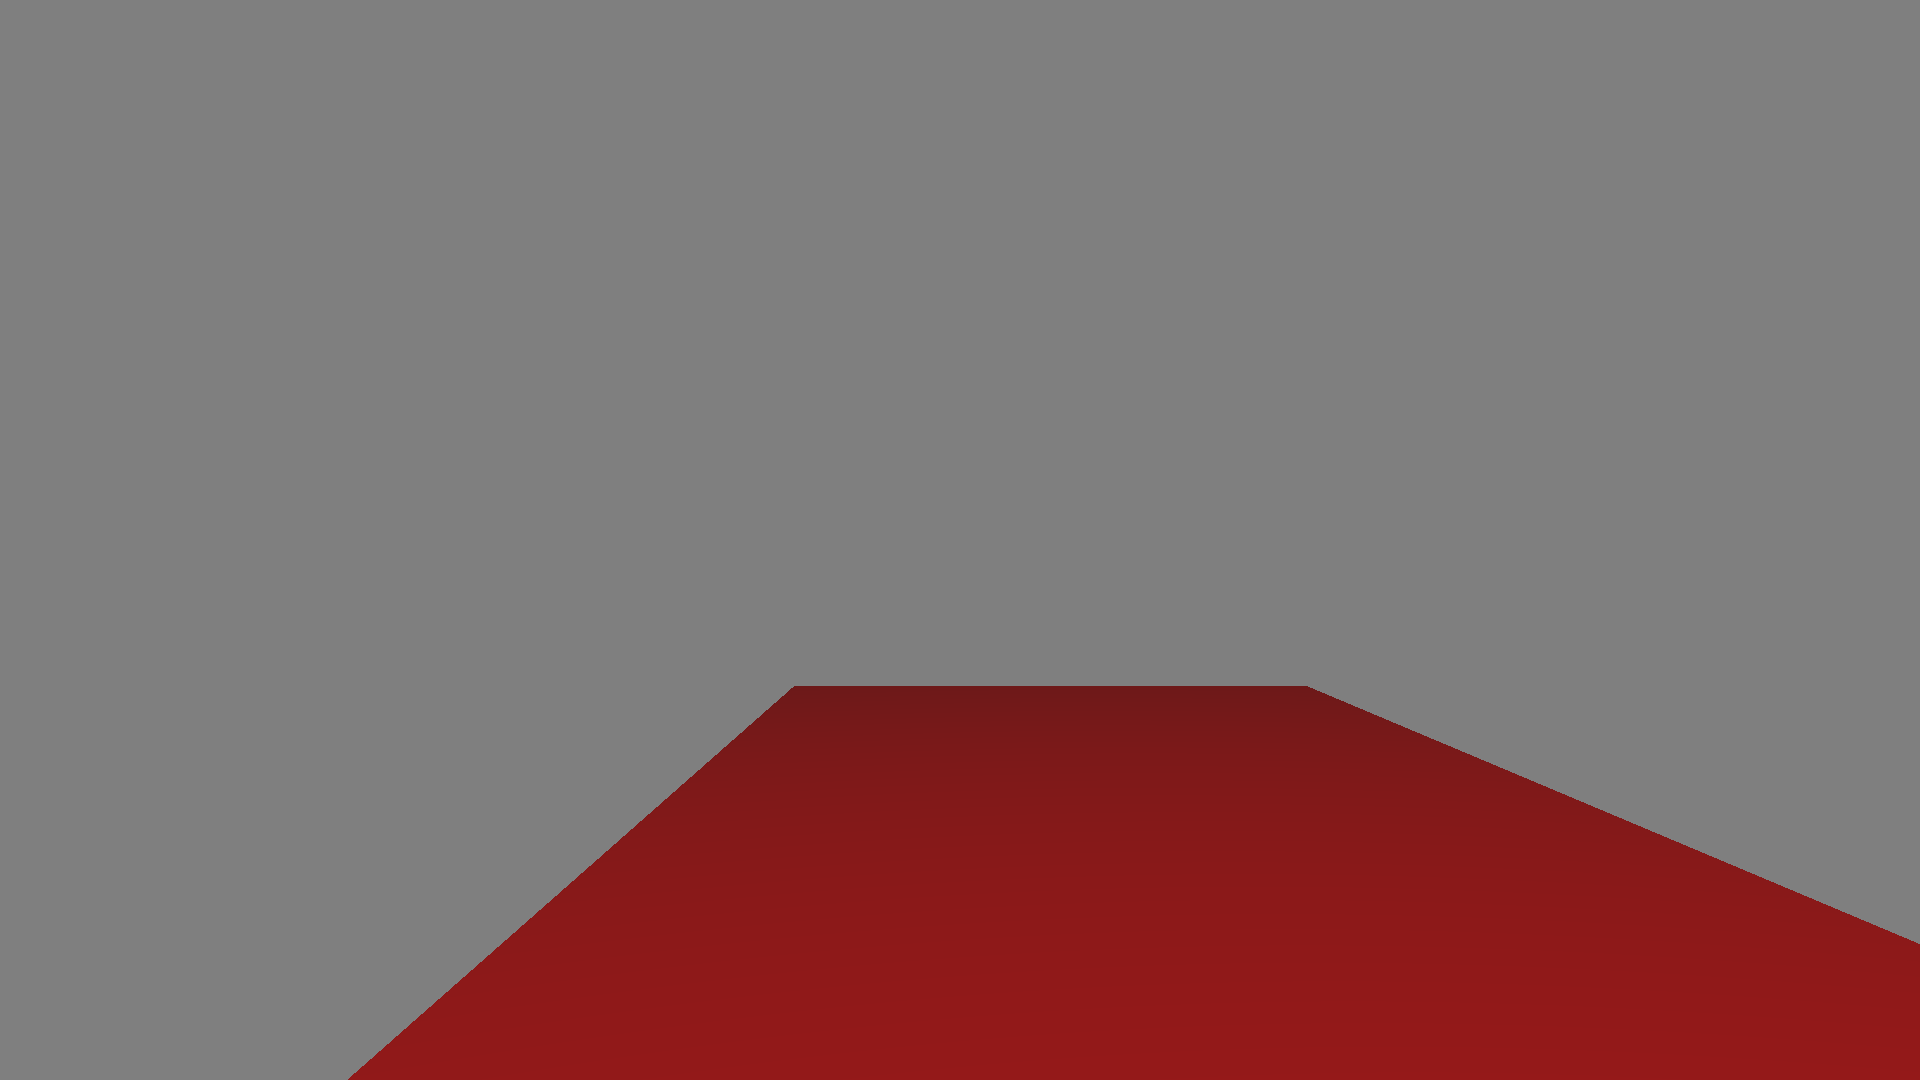
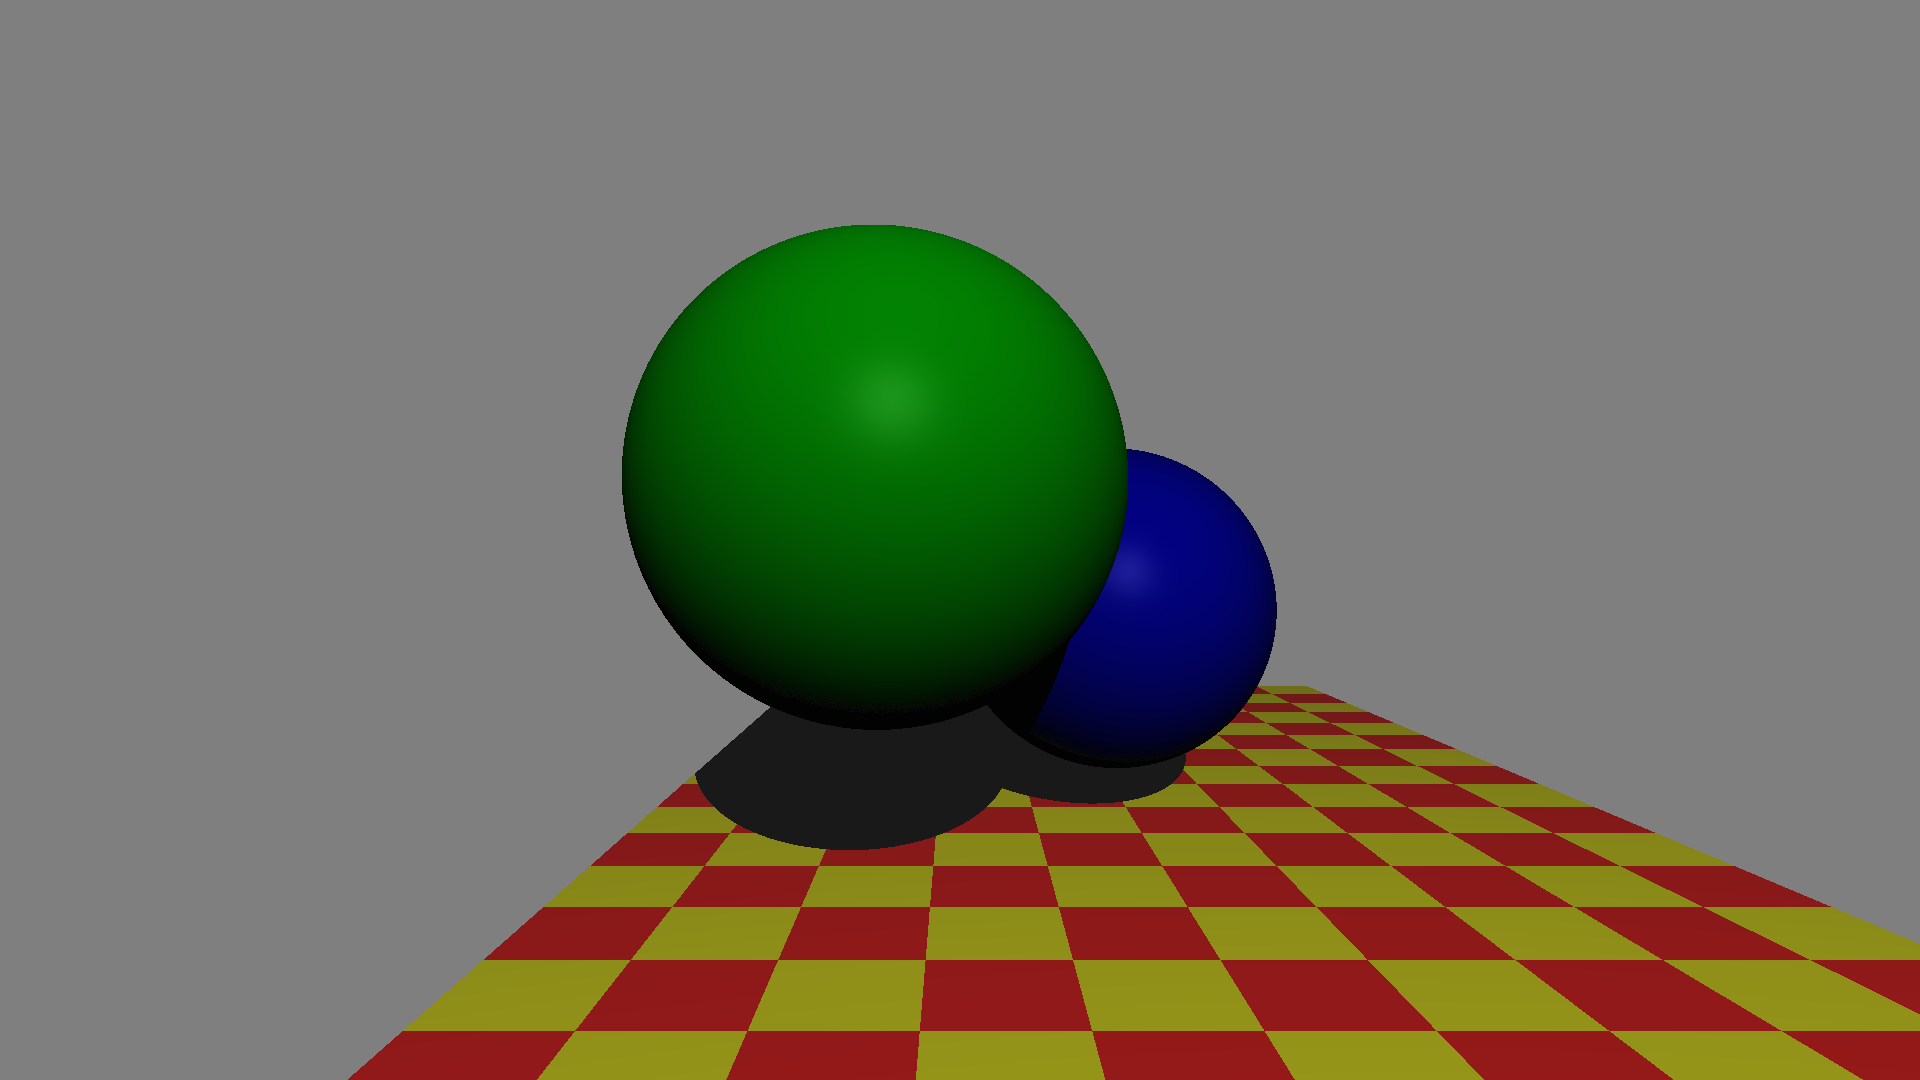
checkerboard works

Changed region(s): [[0.2188, 0.1833, 1.0, 1.0]]

diff --git a/src/tracerMain.cpp b/src/tracerMain.cpp
@@ -13,6 +13,7 @@
 
 #include "png++/png.hpp"
 #include "Camera.h"
+#include "CheckerBoard.h"
 #include "PPlane.h"
 #include "Phong.h"
 #include "Rectangle.h"
@@ -91,7 +92,12 @@ void init() {
         1.0f, 0.8f, 0.0f, 0.0f
     );
 
-    SolidMaterial* plane_mat = new SolidMaterial( vec3( 1.0f, 0.0f, 0.0f ) );
+    // SolidMaterial* plane_mat = new SolidMaterial( vec3( 1.0f, 0.0f, 0.0f ) );
+    CheckerBoard* plane_mat = new CheckerBoard(
+        vec3( 1.0f, 0.0f, 0.0f ),
+        vec3( 1.0f, 1.0f, 0.0f ),
+        24, 10
+    );
 
     Rectangle* rect = new Rectangle(
         &plane_a, &plane_b,
@@ -114,28 +120,30 @@ void init() {
     //         SPHERES
     // =======================
 
-    // vec3 sphere1_p = vec3( 0.77f, 2.7f, -5.0f );
-    // Phong* sphere1_imodel = new Phong(
-    //     vec3( 1.0f, 1.0f, 1.0f ),
-    //     // ka,  kd,   ks,   ke
-    //     0.1f, 0.5f, 0.1f, 20.0f
-    // );
-    //
-    // vec3 sphere2_p = vec3( 1.68f, 2.23f, -3.72f );
-    // Phong* sphere2_imodel = new Phong(
-    //     vec3( 1.0f, 1.0f, 1.0f ),
-    //     // ka,  kd,   ks,   ke
-    //     0.1f, 0.5f, 0.1f, 20.0f
-    // );
-    //
-    // float sphere_trans = 1.3f;
-    // float sphere_r = 0.55f * sphere_trans;
-    //
-    // Sphere* sphere1 = new Sphere( &sphere1_p, sphere_r, sphere1_imodel );
-    // Sphere* sphere2 = new Sphere( &sphere2_p, sphere_r, sphere2_imodel );
-    //
-    // world->add_object( sphere1 );
-    // world->add_object( sphere2 );
+    vec3 sphere1_p = vec3( 0.77f, 2.7f, -5.0f );
+    Phong* sphere1_imodel = new Phong(
+        vec3( 1.0f, 1.0f, 1.0f ),
+        // ka,  kd,   ks,   ke
+        0.1f, 0.5f, 0.1f, 20.0f
+    );
+    SolidMaterial* sphere1_mat = new SolidMaterial( vec3( 0.0f, 1.0f, 0.0f ) );
+
+    vec3 sphere2_p = vec3( 1.68f, 2.23f, -3.72f );
+    Phong* sphere2_imodel = new Phong(
+        vec3( 1.0f, 1.0f, 1.0f ),
+        // ka,  kd,   ks,   ke
+        0.1f, 0.5f, 0.1f, 20.0f
+    );
+    SolidMaterial* sphere2_mat = new SolidMaterial( vec3( 0.0f, 0.0f, 1.0f ) );
+
+    float sphere_trans = 1.3f;
+    float sphere_r = 0.55f * sphere_trans;
+
+    Sphere* sphere1 = new Sphere( &sphere1_p, sphere_r, sphere1_imodel, sphere1_mat );
+    Sphere* sphere2 = new Sphere( &sphere2_p, sphere_r, sphere2_imodel, sphere2_mat );
+
+    world->add_object( sphere1 );
+    world->add_object( sphere2 );
 
     // = = = = = = = = = = //
     // CAMERAS FROM ORIGIN //

diff --git a/src/CheckerBoard.cpp b/src/CheckerBoard.cpp
@@ -1,37 +1,36 @@
-#include <algorithm>
-#include <cmath>
-#include <iostream>
+/**
+ *
+ */
 
-#include <glm/gtx/norm.hpp>
+#include <iostream>
+#include <math.h>
 #include "glm/gtx/string_cast.hpp"
 
 using namespace std;
 using glm::vec3;
-using glm::vec4;
+
+#define PI 3.14159265
 
 #include "CheckerBoard.h"
 
-CheckerBoard::CheckerBoard(vec3 _color_odd, vec3 _color_even, int _rows, int _cols):
- color_odd(_color_odd), color_even(_color_even), rows(_rows), cols(_cols){}
+CheckerBoard::CheckerBoard( vec3 _color_odd, vec3 _color_even, int _rows, int _cols ) :
+            color_odd(_color_odd), color_even(_color_even), rows(_rows), cols(_cols) {}
 
 
- vec3 CheckerBoard::get_color(float u, float v)
- {
-     float col_size = 1/cols;
-     float row_size = 1/rows;
+vec3 CheckerBoard::get_color( float u, float v ) {
+    float col_size = 1.0f / cols;
+    float row_size = 1.0f / rows;
 
-     int current_col = u/col_size;
-     int current_row = v/row_size;
+    int col = u/col_size;
+    int row = v/row_size;
 
-     int even_odd_col = current_col %2;
-     int even_odd_row = current_row %2;
+    int even_odd_col = col % 2;
+    int even_odd_row = row % 2;
 
-     if(even_odd_col == even_odd_row)
-     {
-         return color_even;
-     }
-     else
-     {
-         return color_odd;
-     }
- }
+    if( even_odd_col == even_odd_row ) {
+        return color_even;
+    }
+    else {
+        return color_odd;
+    }
+}

diff --git a/src/CheckerBoard.h b/src/CheckerBoard.h
@@ -7,8 +7,7 @@ using glm::vec3;
 
 #include "Material.h"
 
-class CheckerBoard : public Material
-{
+class CheckerBoard : public Material {
     vec3 color_odd;
     vec3 color_even;
 
@@ -16,8 +15,8 @@ class CheckerBoard : public Material
     int cols;
 
     public:
-        CheckerBoard(vec3 _color_odd, vec3 _color_even, int _rows, int _cols);
+        CheckerBoard( vec3 _color_odd, vec3 _color_even, int _rows, int _cols );
 
-        vec3 get_color( float u, float v ) = 0;
+        vec3 get_color( float u, float v );
 };
 #endif

diff --git a/src/Object.h b/src/Object.h
@@ -27,7 +27,7 @@ public:
     // virtual Object& operator=( const Object& model ) = 0;
 
     // returns a 3D vector of the RGB value of a point on the object intersected by a given Ray
-    vec3 get_color( Ray* r, float dist, std::vector<Light*> lights, vec3* amb );
+    vec3 get_color( Ray* r, float dist, std::vector<Light*> lights, vec3* amb, mat4 rev_tmat );
     // reduces a 4D vector to a 3D vector
     vec3 convert( vec4* vector );
 
